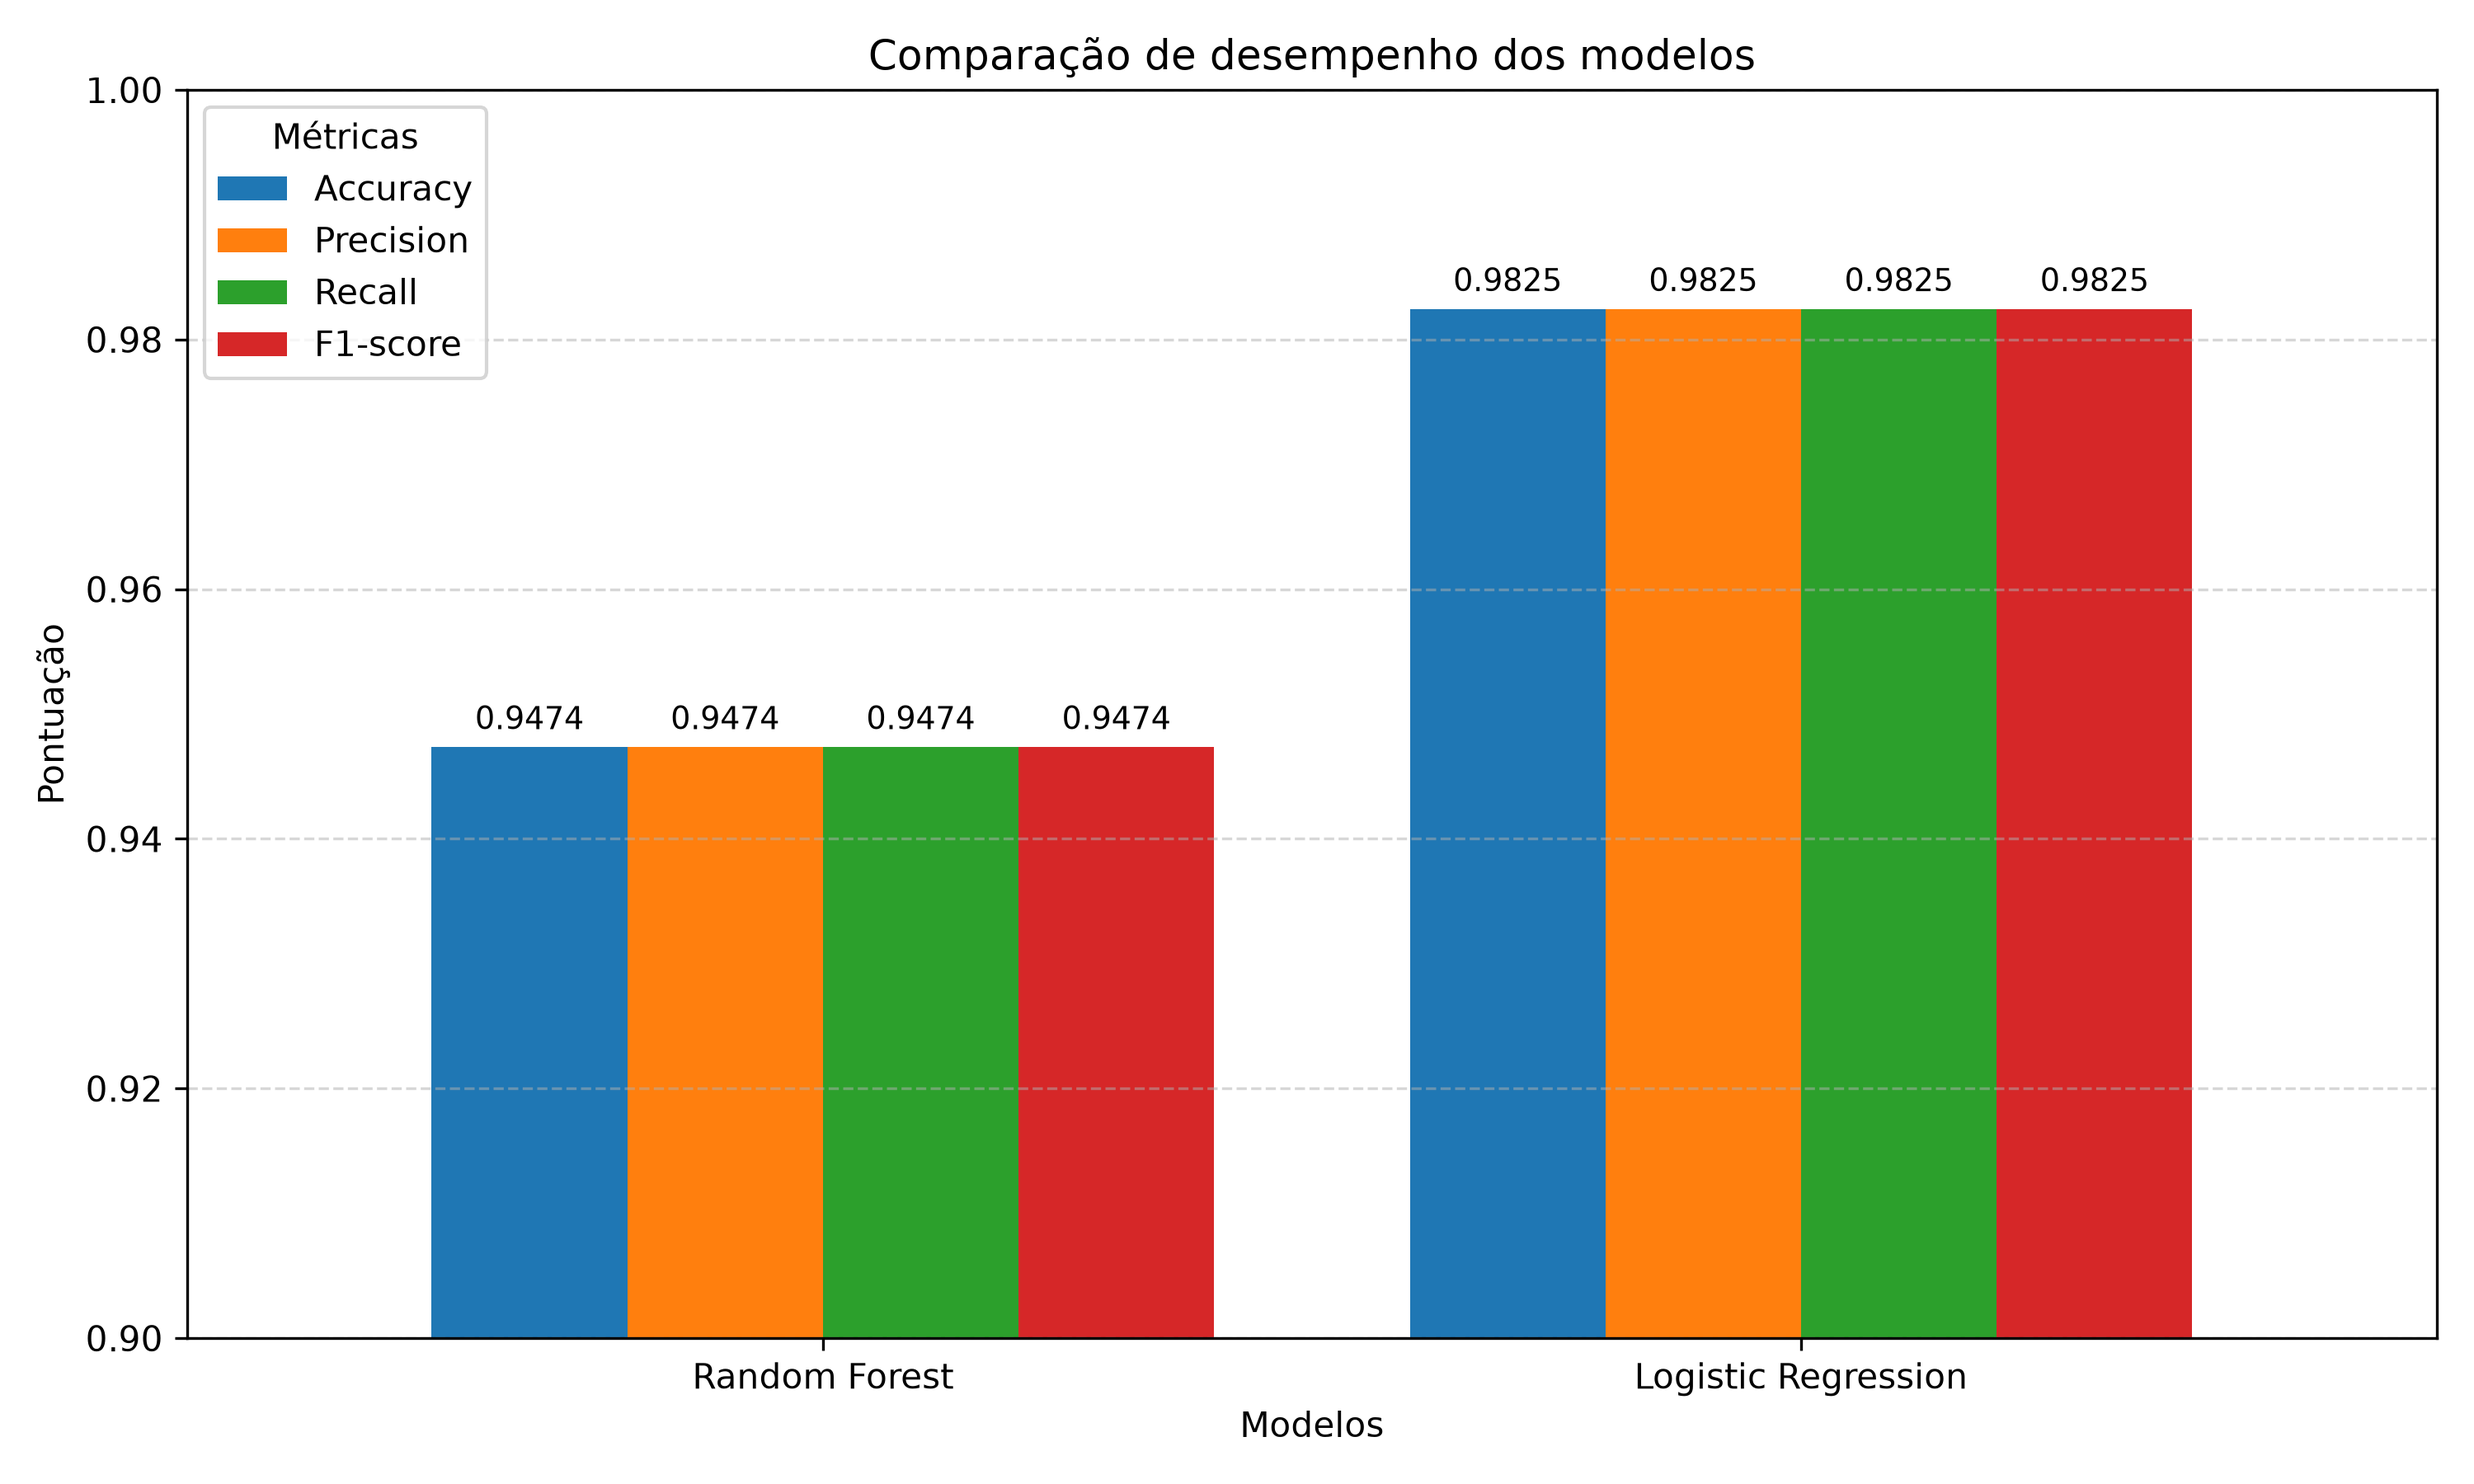
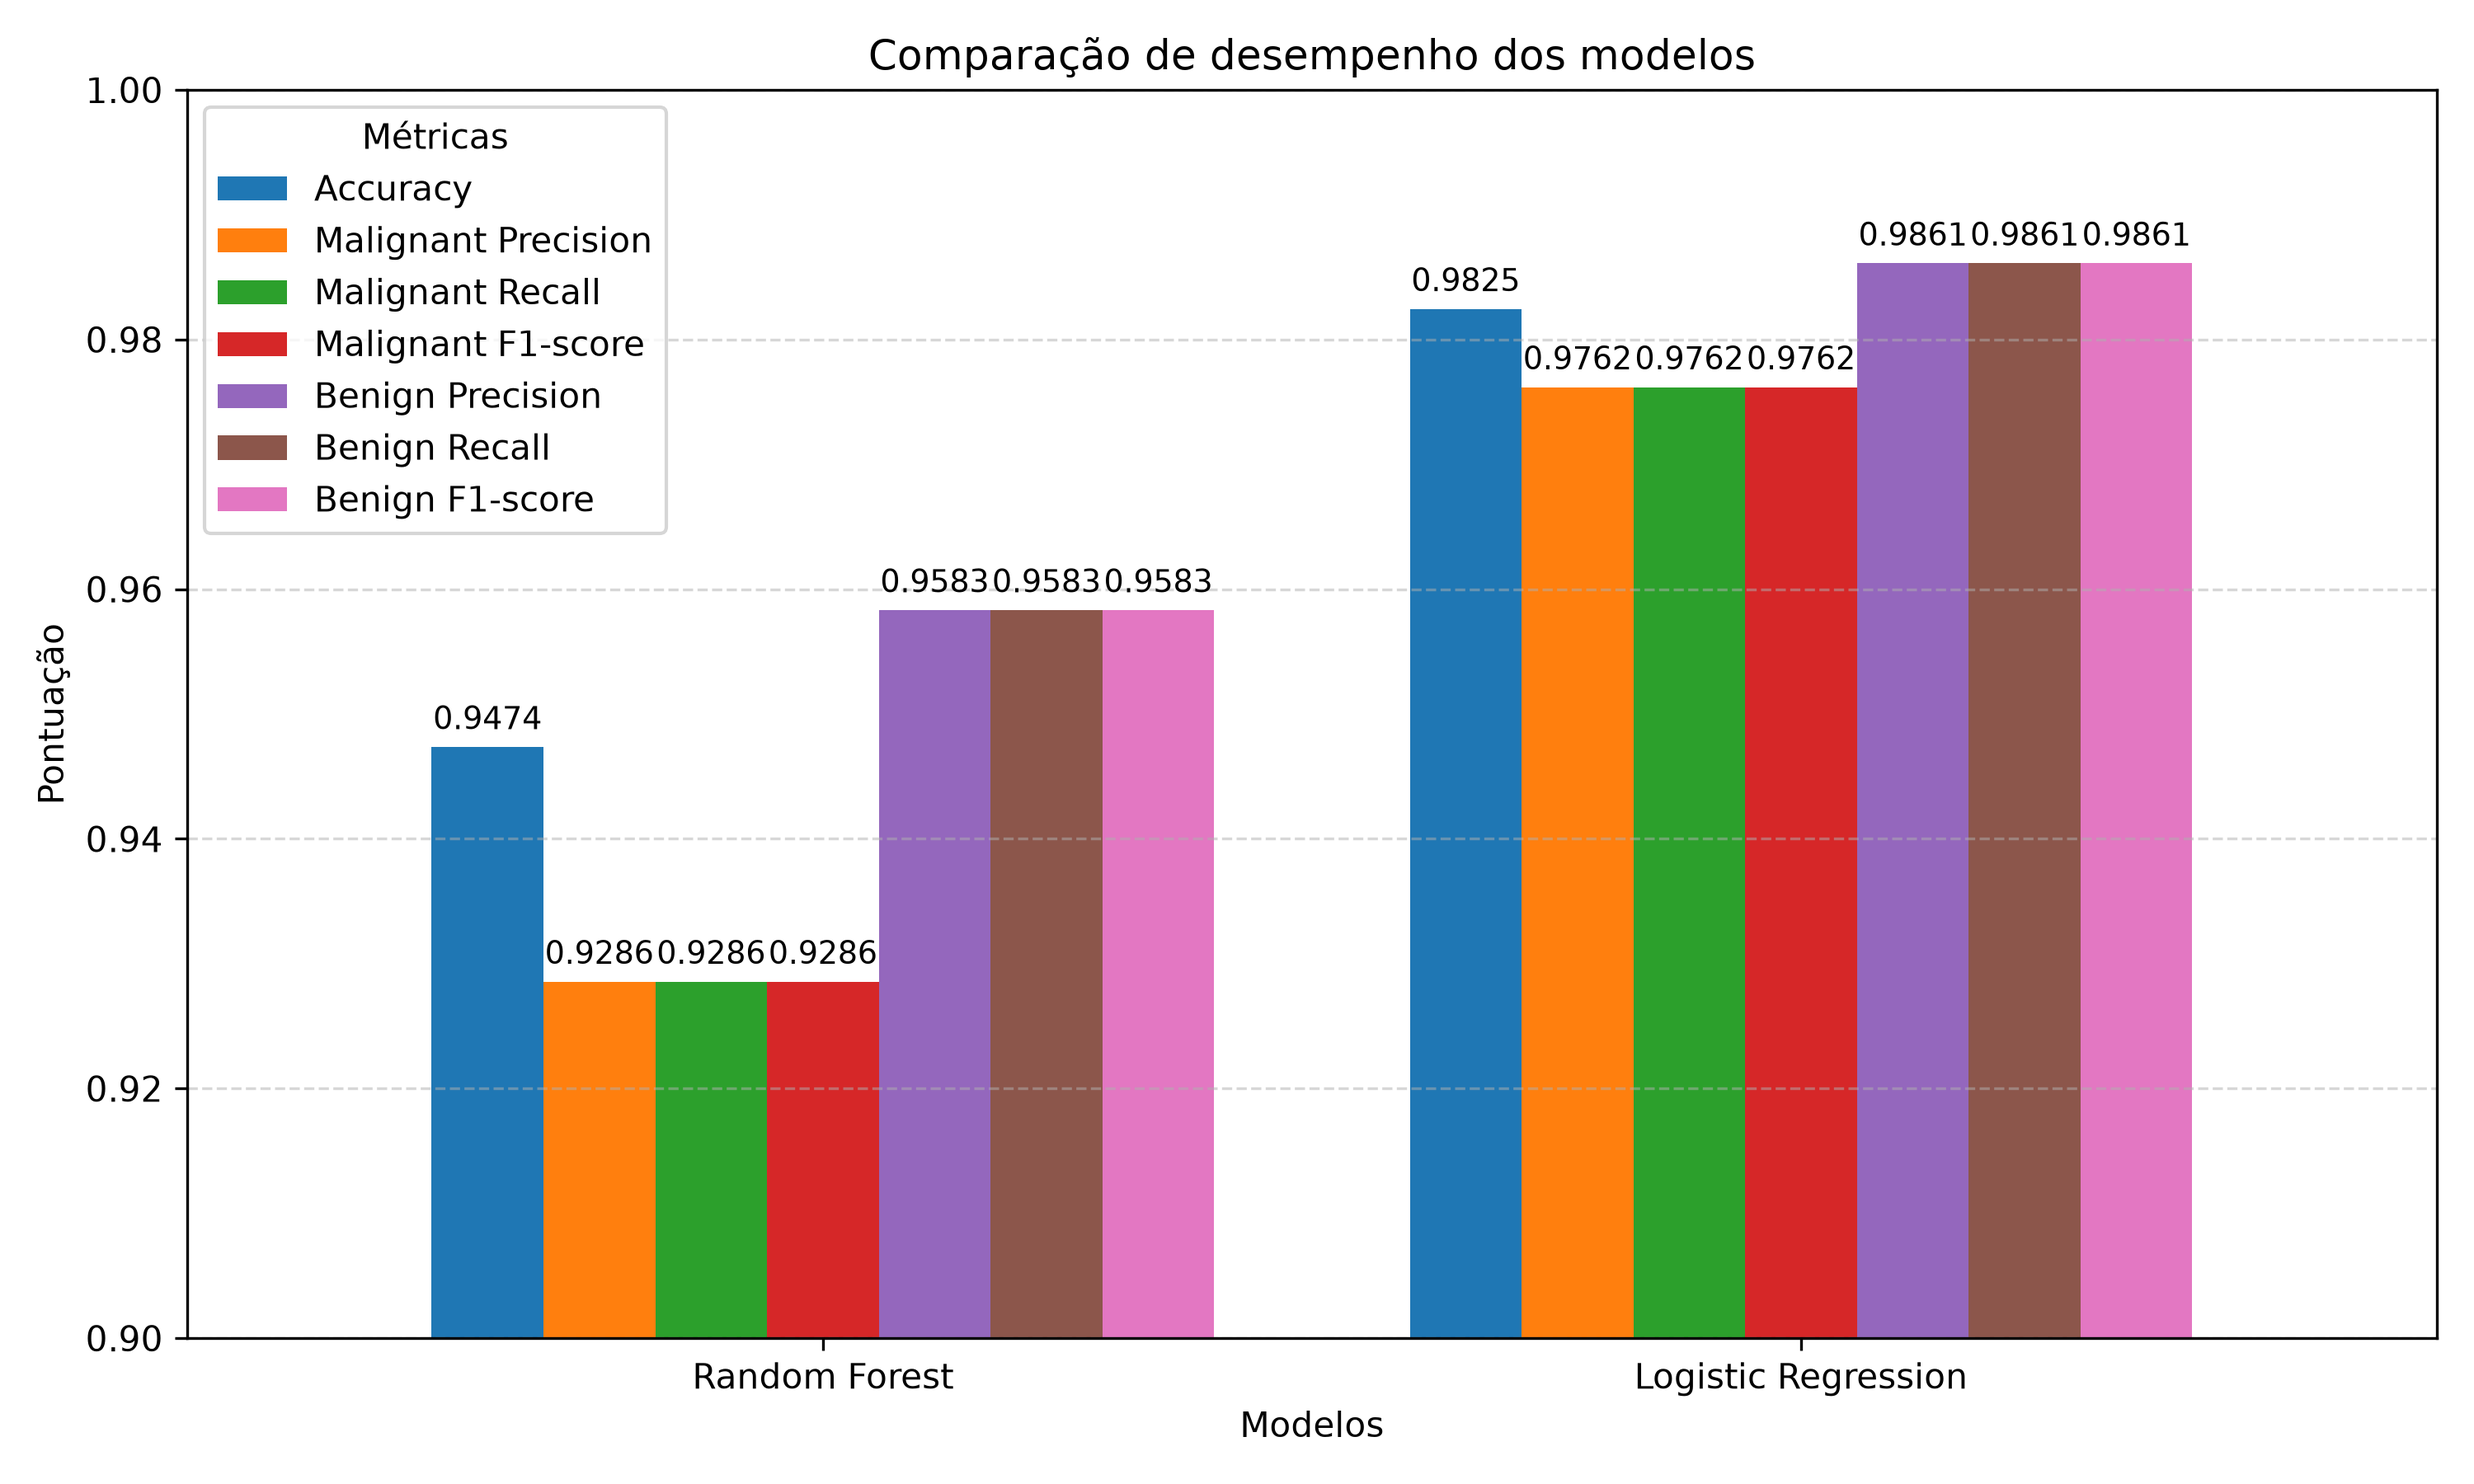
feat: otimization

diff --git a/src/mlops/optimization/randomized_search.py b/src/mlops/optimization/randomized_search.py
@@ -1,0 +1,192 @@
+
+import pandas as pd
+from pathlib import Path
+
+from sklearn.ensemble import RandomForestClassifier
+from sklearn.model_selection import RandomizedSearchCV
+from sklearn.metrics import (
+    accuracy_score,
+    classification_report,
+    confusion_matrix
+)
+
+from mlops.data.load_dataset import load_dataset
+
+from mlops.preprocessing.pre_process import (
+    separate_features_target,
+    check_transformations,
+    train_test_split_data
+)
+
+from mlops.utils.save_model import save_model
+from mlops.utils.save_metrics import save_metrics
+
+
+def generate_optimization_report(
+    best_params,
+    best_score,
+    accuracy,
+    report_dict,
+    matrix
+):
+    report_path = Path(
+        "reports/optimization/randomized_search_report.md"
+    )
+
+    report_path.parent.mkdir(parents=True, exist_ok=True)
+
+    report = f"""# Relatório de Otimização - RandomizedSearchCV
+
+## Configuração da busca
+
+- Modelo: Random Forest
+- Método: RandomizedSearchCV
+- Número de combinações: 20
+- Validação cruzada: 5 folds
+- Métrica de seleção: F1-macro
+- Random state: 42
+
+## Melhores hiperparâmetros
+
+```python
+{best_params}
+```
+
+## Resultados
+
+- Melhor F1-macro na validação cruzada: {best_score:.4f}
+- Accuracy no conjunto de teste: {accuracy:.4f}
+
+## Matriz de confusão
+
+```text
+{matrix}
+```
+
+## Métricas de classificação
+
+```text
+{pd.DataFrame(report_dict).T.to_string()}
+```
+"""
+
+    report_path.write_text(report, encoding="utf-8")
+
+    print(f"\nRelatório de otimização salvo em: {report_path}")
+
+
+def optimize_random_forest():
+
+    # Carregamento dos dados
+    data = load_dataset()
+
+    # Separação das features e target
+    X, y = separate_features_target(data)
+
+    # Verificação do pré-processamento
+    check_transformations(X)
+
+    # Divisão dos dados
+    X_train, X_test, y_train, y_test = train_test_split_data(X, y)
+
+    # Modelo base
+    model = RandomForestClassifier(
+        random_state=42,
+        n_jobs=1
+    )
+
+    # Hiperparâmetros para otimização
+    param_distributions = {
+        "n_estimators": [100, 200, 300, 400, 500],
+        "max_depth": [None, 5, 10, 15, 20, 30],
+        "min_samples_split": [2, 5, 10],
+        "min_samples_leaf": [1, 2, 4],
+        "max_features": ["sqrt", "log2", None]
+    }
+
+    # Busca aleatória
+    randomized_search = RandomizedSearchCV(
+        estimator=model,
+        param_distributions=param_distributions,
+        n_iter=20,
+        cv=5,
+        scoring="f1_macro",
+        random_state=42,
+        n_jobs=-1,
+        verbose=2
+    )
+
+    print("\nIniciando RandomizedSearchCV...")
+
+    randomized_search.fit(X_train, y_train)
+
+    # Melhores resultados
+    best_model = randomized_search.best_estimator_
+
+    print("\nMelhores hiperparâmetros:")
+    print(randomized_search.best_params_)
+
+    print("\nMelhor resultado na validação cruzada:")
+    print(f"{randomized_search.best_score_:.4f}")
+
+    # Avaliação final no conjunto de teste
+    predictions = best_model.predict(X_test)
+
+    accuracy = accuracy_score(y_test, predictions)
+
+    matrix = confusion_matrix(y_test, predictions)
+
+    report_dict = classification_report(
+        y_test,
+        predictions,
+        target_names=["malignant", "benign"],
+        zero_division=0,
+        output_dict=True
+    )
+
+    print("\nAvaliação do modelo otimizado")
+    print("*" * 40)
+    print(f"Accuracy: {accuracy:.4f}")
+
+    print("\nMatriz de confusão:")
+    print(matrix)
+
+    print("\nRelatório de classificação:")
+    print(pd.DataFrame(report_dict).T)
+
+    # Salvamento do modelo
+    save_model(best_model, "model_3_random_forest_optimized")
+
+    # Salvamento das métricas para comparação
+    save_metrics(
+        model_name="Random Forest Optimized",
+        accuracy=accuracy,
+        classification_metrics=report_dict
+    )
+
+    # Salvamento dos resultados da otimização
+    results_path = Path(
+        "reports/optimization/randomized_search_results.csv"
+    )
+
+    results_path.parent.mkdir(parents=True, exist_ok=True)
+
+    pd.DataFrame(randomized_search.cv_results_).to_csv(
+        results_path,
+        index=False
+    )
+
+    print(f"\nResultados da busca salvos em: {results_path}")
+
+    # Geração do relatório da otimização
+    generate_optimization_report(
+        best_params=randomized_search.best_params_,
+        best_score=randomized_search.best_score_,
+        accuracy=accuracy,
+        report_dict=report_dict,
+        matrix=matrix
+    )
+
+
+if __name__ == "__main__":
+    optimize_random_forest()

diff --git a/src/mlops/visualization/visualize_models.py b/src/mlops/visualization/visualize_models.py
@@ -22,17 +22,23 @@ def visualize_models():
         [
             "model",
             "accuracy",
-            "weighted avg_precision",
-            "weighted avg_recall",
-            "weighted avg_f1-score"
+            "malignant_precision",
+            "malignant_recall",
+            "malignant_f1-score",
+            "benign_precision",
+            "benign_recall",
+            "benign_f1-score"
         ]
     ].copy()
 
     comparison = comparison.rename(columns={
         "accuracy": "Accuracy",
-        "weighted avg_precision": "Precision",
-        "weighted avg_recall": "Recall",
-        "weighted avg_f1-score": "F1-score"
+        "malignant_precision": "Malignant Precision",
+        "malignant_recall": "Malignant Recall",
+        "malignant_f1-score": "Malignant F1-score",
+        "benign_precision": "Benign Precision",
+        "benign_recall": "Benign Recall",
+        "benign_f1-score": "Benign F1-score"
     })
 
     comparison = comparison.set_index("model")
@@ -111,7 +117,7 @@ def visualize_class_metrics():
         ax.set_title(f"Desempenho da classe: {class_name.capitalize()}")
         ax.set_xlabel("Modelos")
         ax.set_ylabel("Pontuação")
-        ax.set_ylim(0.90, 1.00)
+        #ax.set_ylim(0.90, 1.00)
         ax.legend(title="Métricas")
         ax.grid(axis="y", linestyle="--", alpha=0.5)
 

diff --git a/docs/hyperparameter_tuning.md b/docs/hyperparameter_tuning.md
@@ -1,0 +1,85 @@
+# Otimização de Hiperparâmetros
+
+## 1. O que é otimização de hiperparâmetros?
+
+A otimização de hiperparâmetros é uma etapa do desenvolvimento de modelos de Machine Learning que busca encontrar as melhores configurações possíveis para um algoritmo, com o objetivo de melhorar seu desempenho preditivo.
+
+Hiperparâmetros são configurações definidas antes do treinamento do modelo. Diferentemente dos parâmetros internos, que são aprendidos durante o processo de treinamento, os hiperparâmetros são definidos pelo desenvolvedor ou selecionados por métodos de busca.
+
+No caso do algoritmo **Random Forest**, alguns exemplos de hiperparâmetros são:
+
+- `n_estimators`: quantidade de árvores utilizadas na floresta.
+- `max_depth`: profundidade máxima permitida para cada árvore.
+- `min_samples_split`: quantidade mínima de amostras necessárias para dividir um nó.
+- `min_samples_leaf`: quantidade mínima de amostras exigida em um nó folha.
+- `max_features`: quantidade de características consideradas em cada divisão.
+
+Cada configuração pode produzir resultados diferentes, influenciando a capacidade de generalização do modelo.
+
+## 2. Para que serve?
+
+A otimização de hiperparâmetros permite explorar diferentes configurações de um algoritmo para identificar aquelas que apresentam melhor desempenho.
+
+Entre seus principais objetivos estão:
+
+- Melhorar as métricas de avaliação do modelo.
+- Reduzir o risco de overfitting e underfitting.
+- Encontrar configurações que generalizem melhor para dados não utilizados no treinamento.
+- Comparar diferentes combinações de hiperparâmetros de maneira sistemática.
+- Tornar o processo de treinamento mais consistente e reproduzível.
+
+É importante destacar que uma configuração com desempenho superior nos dados de treinamento não significa necessariamente um modelo melhor. Por isso, a avaliação deve considerar validação cruzada e dados de teste separados.
+
+## 3. Como funciona o processo?
+
+De maneira geral, o processo de otimização segue estas etapas:
+
+1. **Definição do algoritmo:** escolha do modelo que será otimizado.
+2. **Definição do espaço de busca:** seleção dos hiperparâmetros e dos valores que serão testados.
+3. **Execução da busca:** avaliação das diferentes combinações de configurações.
+4. **Validação cruzada:** divisão dos dados de treinamento em diferentes partes para avaliar a estabilidade do modelo.
+5. **Seleção da melhor configuração:** identificação da combinação que apresenta o melhor resultado segundo a métrica escolhida.
+6. **Avaliação final:** aplicação do modelo otimizado aos dados de teste, que não participaram da busca.
+
+## 4. Métodos utilizados no projeto
+
+Neste projeto, serão utilizados dois métodos de otimização disponibilizados pelo Scikit-learn:
+
+### RandomizedSearchCV
+
+O `RandomizedSearchCV` seleciona aleatoriamente combinações de hiperparâmetros dentro de um espaço de busca definido.
+
+Em vez de testar todas as combinações possíveis, o método avalia uma quantidade determinada de configurações, utilizando validação cruzada para comparar os resultados.
+
+Essa abordagem permite explorar espaços de busca maiores com um custo computacional potencialmente menor.
+
+### HalvingGridSearchCV
+
+O `HalvingGridSearchCV` utiliza uma estratégia de eliminação sucessiva (*successive halving*).
+
+Inicialmente, avalia diversas combinações de hiperparâmetros utilizando uma quantidade menor de recursos. Nas etapas seguintes, elimina as configurações com pior desempenho e direciona mais recursos para as combinações mais promissoras.
+
+Essa estratégia busca reduzir o custo computacional da otimização, concentrando os recursos nas configurações com maior potencial.
+
+## 5. Métrica de avaliação
+
+Neste projeto, será utilizada a métrica **F1-score macro** como critério de seleção durante a otimização.
+
+O F1-score combina precisão (*precision*) e revocação (*recall*) em uma única medida.
+
+A média macro calcula o F1-score de cada classe individualmente e depois realiza a média simples entre elas, atribuindo o mesmo peso às classes.
+
+Essa escolha permite avaliar o desempenho do modelo considerando igualmente as classes `malignant` e `benign`.
+
+## 6. Importância para o fluxo MLOps
+
+A otimização de hiperparâmetros contribui para a construção de modelos mais consistentes e para a melhoria do processo de desenvolvimento.
+
+No contexto deste projeto, os resultados obtidos serão utilizados nas próximas etapas do pipeline:
+
+- Comparação entre os modelos baseline e otimizados.
+- Registro de parâmetros, métricas e resultados com MLflow Tracking.
+- Seleção do modelo com melhor desempenho.
+- Versionamento e gerenciamento do modelo por meio do MLflow Model Registry.
+
+Dessa forma, a otimização não representa apenas uma tentativa de melhorar uma métrica, mas uma etapa estruturada do ciclo de vida do modelo de Machine Learning.

diff --git a/reports/optimization/randomized_search_report.md b/reports/optimization/randomized_search_report.md
@@ -1,0 +1,39 @@
+# Relatório de Otimização - RandomizedSearchCV
+
+## Configuração da busca
+
+- Modelo: Random Forest
+- Método: RandomizedSearchCV
+- Número de combinações: 20
+- Validação cruzada: 5 folds
+- Métrica de seleção: F1-macro
+- Random state: 42
+
+## Melhores hiperparâmetros
+
+```python
+{'n_estimators': 500, 'min_samples_split': 2, 'min_samples_leaf': 1, 'max_features': 'log2', 'max_depth': 10}
+```
+
+## Resultados
+
+- Melhor F1-macro na validação cruzada: 0.9554
+- Accuracy no conjunto de teste: 0.9561
+
+## Matriz de confusão
+
+```text
+[[39  3]
+ [ 2 70]]
+```
+
+## Métricas de classificação
+
+```text
+              precision    recall  f1-score    support
+malignant      0.951220  0.928571  0.939759   42.00000
+benign         0.958904  0.972222  0.965517   72.00000
+accuracy       0.956140  0.956140  0.956140    0.95614
+macro avg      0.955062  0.950397  0.952638  114.00000
+weighted avg   0.956073  0.956140  0.956027  114.00000
+```
